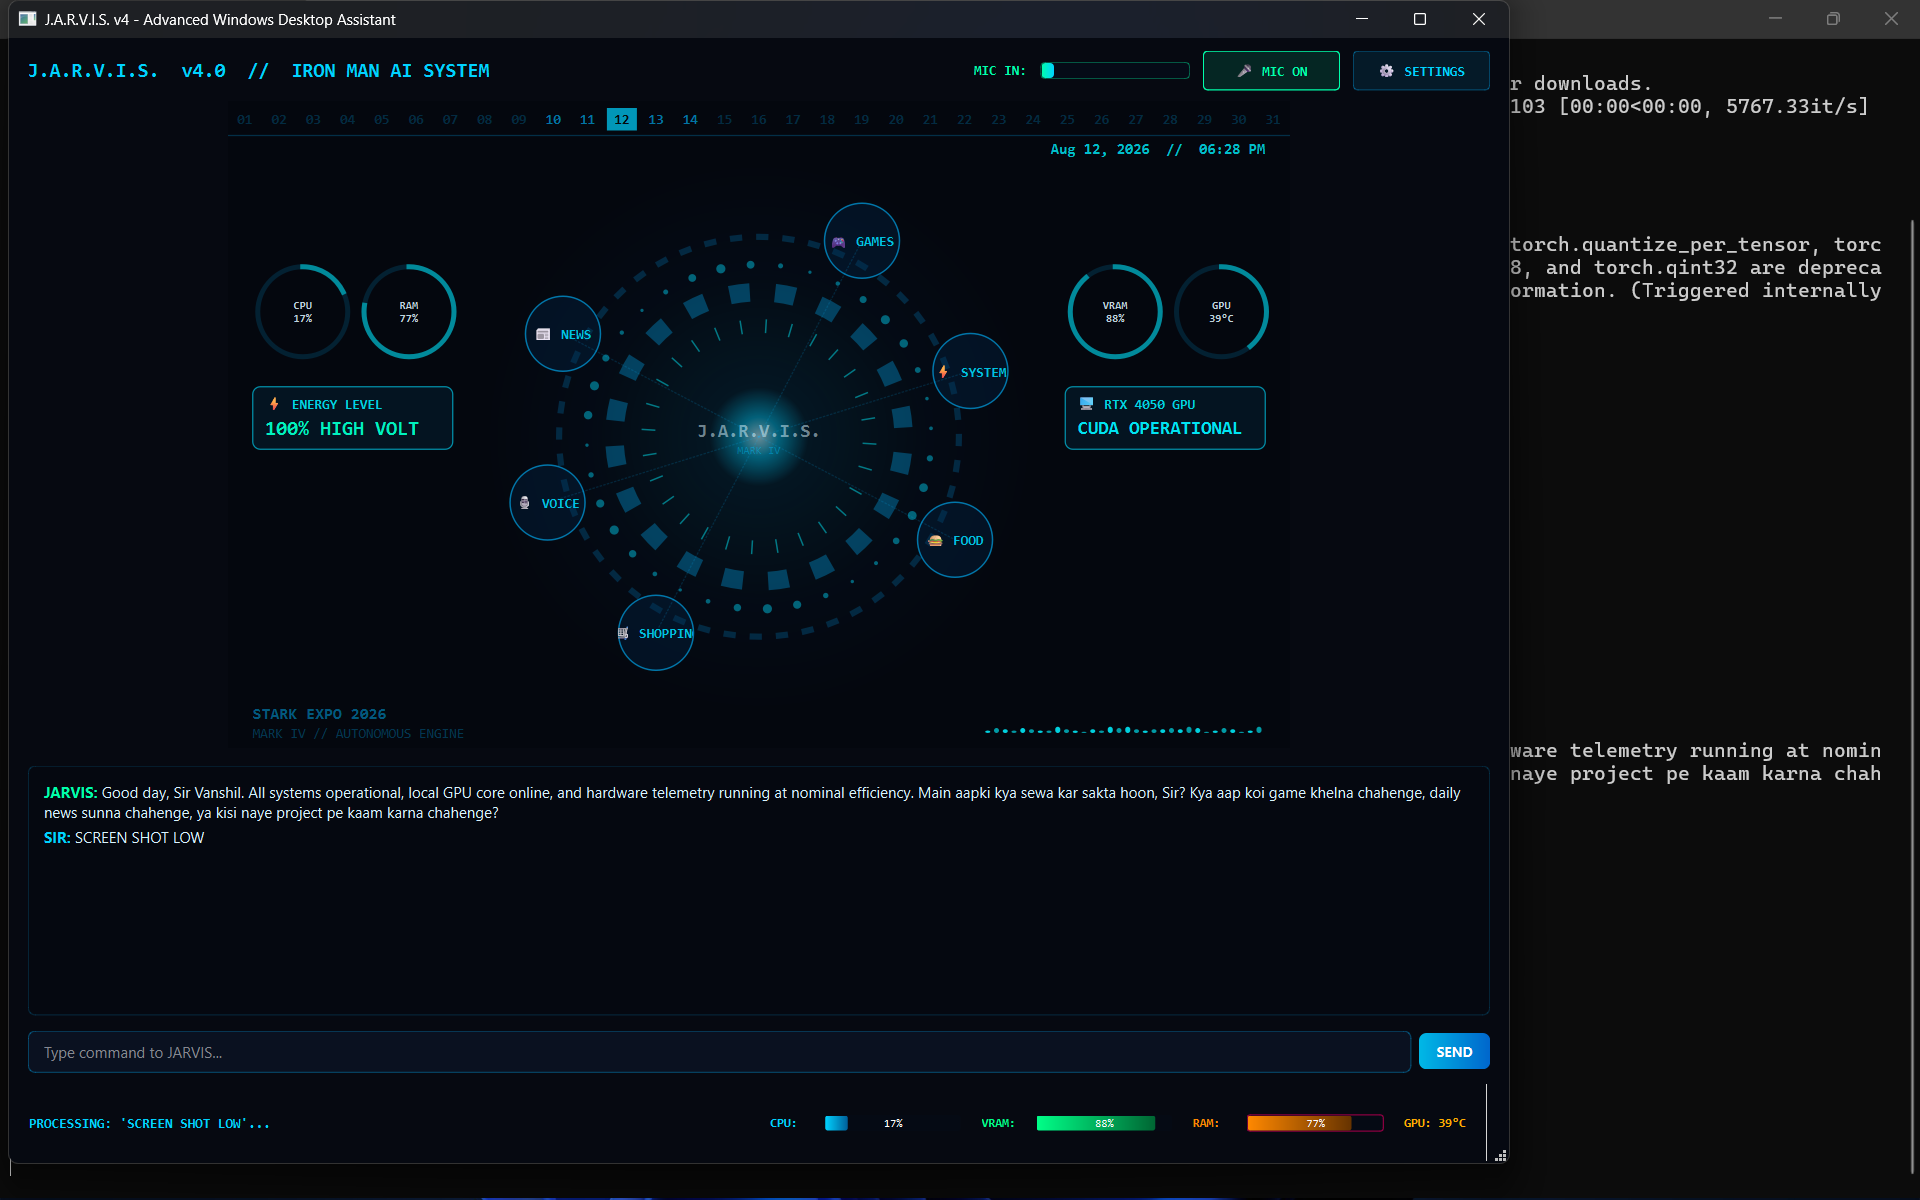
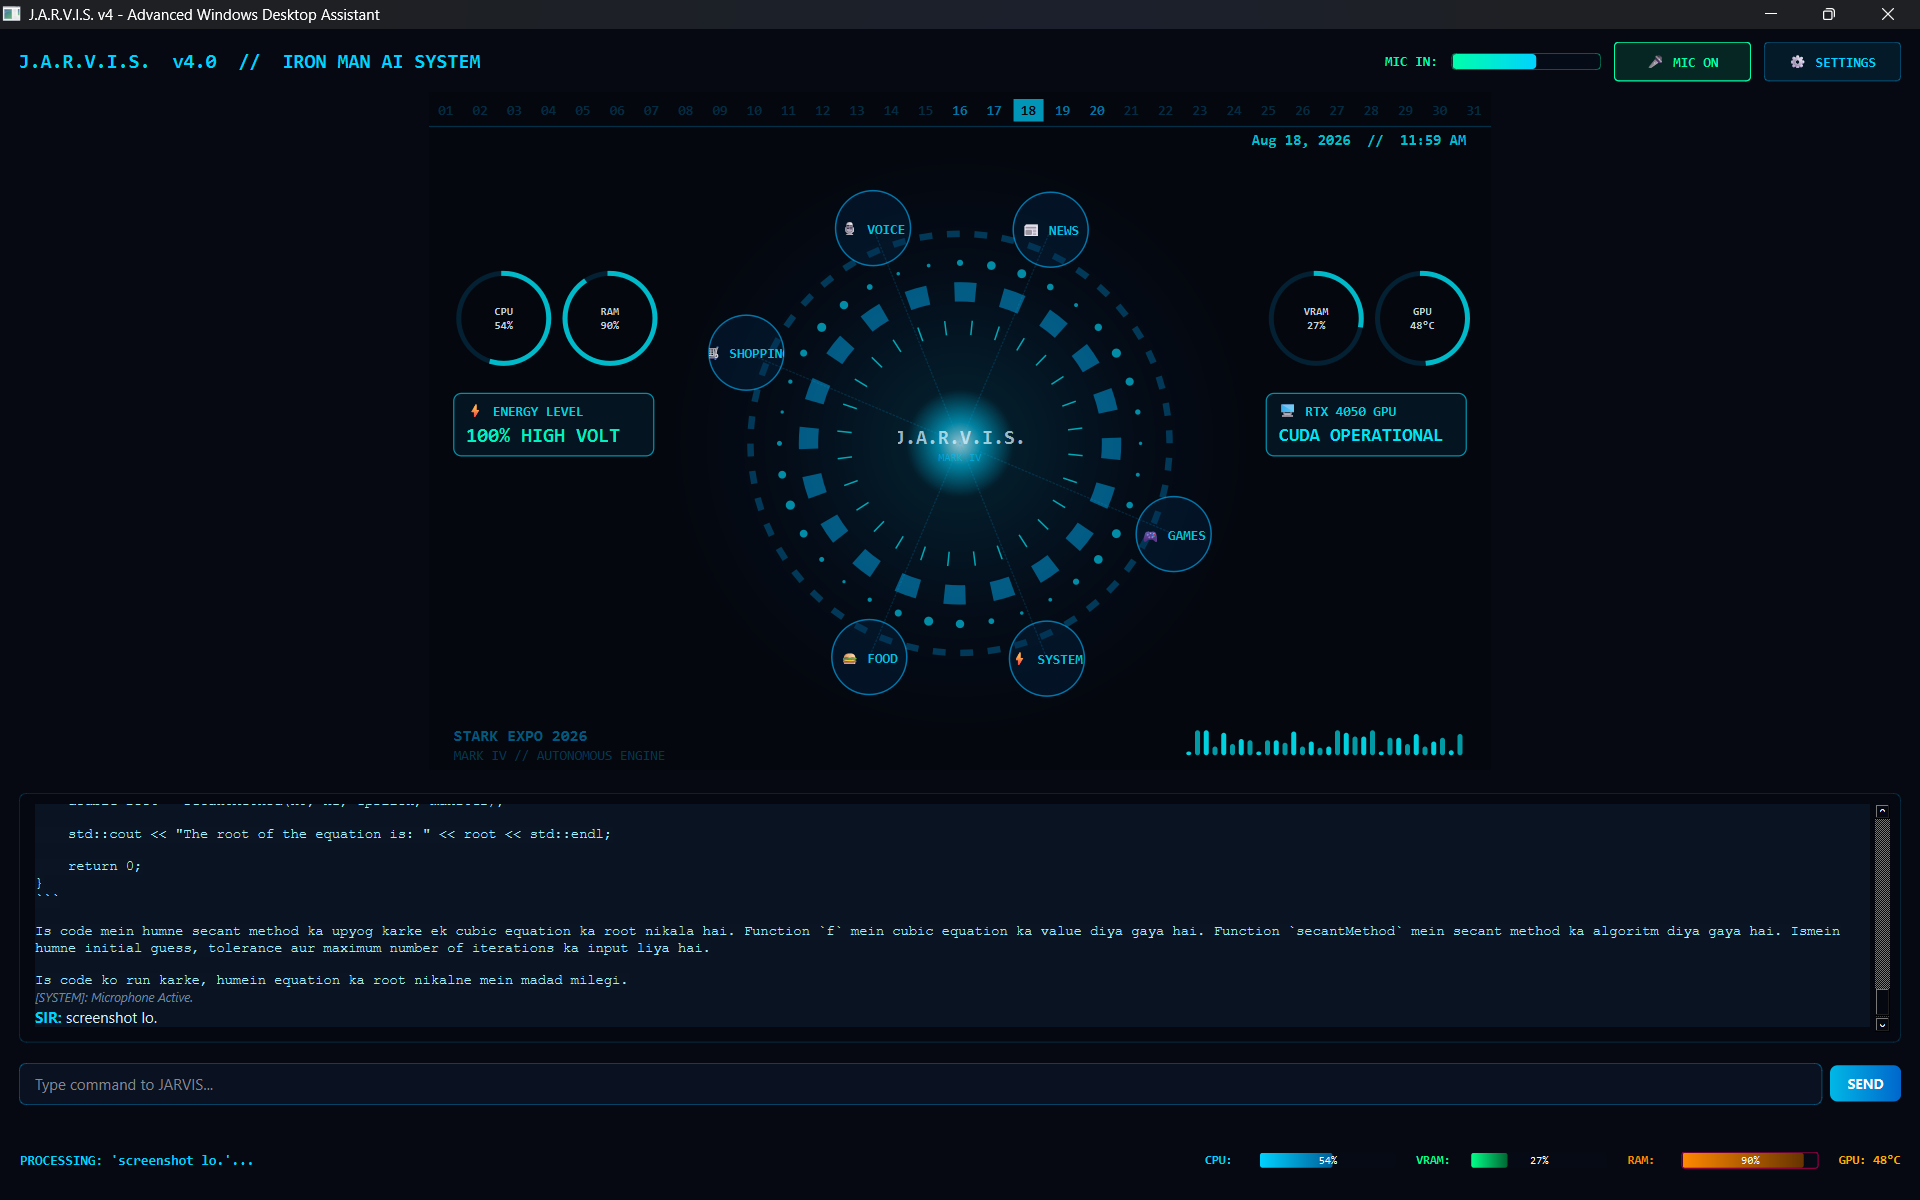
Expand code writing triggers in planner_agent.py and add offline templates + UI feed rendering in coding_agent.py

diff --git a/agents/coding_agent.py b/agents/coding_agent.py
@@ -27,35 +27,54 @@ class CodingAgent(BaseAgent):
 
     async def execute_task(self, action: str, params: Dict[str, Any]) -> Dict[str, Any]:
         action = action.lower()
-        if action == "create_vscode_project":
+        if action in ("create_vscode_project", "create_project"):
             folder_name = params.get("folder_name", "JARVIS_Project")
             target_dir = params.get("target_dir")
             language = params.get("language", "python")
             prompt = params.get("prompt", f"Create a production quality {language} project")
-            sys_prompt = f"You are an expert {language} software developer. Generate complete production code with comments."
+            sys_prompt = f"You are an expert {language} software developer. Generate complete, clean, working production code with comments."
             code = await self.llm.generate_response(prompt=prompt, system_prompt=sys_prompt)
+            if "offline standby mode" in code or not code.strip():
+                code = self._get_fallback_code(prompt, language)
+
             res = self.vscode.create_project_and_code(
                 folder_name=folder_name,
                 target_dir=target_dir,
                 language=language,
                 code_content=code
             )
+            notepad_file = self._open_in_notepad(code, language)
             res["code"] = code
+            res["notepad_path"] = notepad_file
+            res["speech_reply"] = f"Ji Sir, maine '{folder_name}' folder me aapka {language.capitalize()} code write karke Notepad aur VS Code me khol diya hai!"
             return res
 
-        elif action == "generate_code":
+        elif action in ("generate_code", "write_code", "code"):
             language = params.get("language", "python")
-            prompt = params.get("prompt", "")
-            sys_prompt = f"You are an expert {language} software developer. Generate clean, efficient, production quality code with comments."
+            prompt = params.get("prompt", params.get("user_input", "Write clean python code"))
+            sys_prompt = f"You are an expert {language} software developer. Generate clean, efficient, working code with comments."
             code = await self.llm.generate_response(prompt=prompt, system_prompt=sys_prompt)
+            if "offline standby mode" in code or not code.strip():
+                code = self._get_fallback_code(prompt, language)
+
             notepad_path = self._open_in_notepad(code, language)
-            return {"status": "success", "language": language, "code": code, "notepad_path": notepad_path}
+            return {
+                "status": "success",
+                "language": language,
+                "code": code,
+                "notepad_path": notepad_path,
+                "speech_reply": f"Ji Sir, maine aapka {language.capitalize()} code write kar diya hai aur ise Notepad me open kar diya hai! Code aapke GUI feed par bhi hai."
+            }
 
         elif action == "explain_code":
             code = params.get("code", "")
             prompt = f"Explain the following code step-by-step:\n```\n{code}\n```"
             explanation = await self.llm.generate_response(prompt=prompt)
-            return {"status": "success", "explanation": explanation}
+            return {
+                "status": "success",
+                "explanation": explanation,
+                "speech_reply": f"Sir, yeh raha aapke code ka step-by-step explanation: {explanation[:200]}..."
+            }
 
         elif action == "debug_code":
             code = params.get("code", "")
@@ -63,13 +82,106 @@ class CodingAgent(BaseAgent):
             prompt = f"Debug this code:\n```\n{code}\n```\nStack Trace / Error:\n{error_msg}\nProvide corrected code and explanation."
             fix = await self.llm.generate_response(prompt=prompt)
             notepad_path = self._open_in_notepad(fix, "txt")
-            return {"status": "success", "debug_result": fix, "notepad_path": notepad_path}
+            return {
+                "status": "success",
+                "debug_result": fix,
+                "notepad_path": notepad_path,
+                "speech_reply": "Ji Sir, maine code ko debug karke corrected code Notepad me open kar diya hai."
+            }
 
         elif action == "run_python_sandbox":
             code = params.get("code", "")
             return self._run_python_sandbox(code)
 
         return {"status": "error", "message": f"Unknown coding action: '{action}'"}
+
+    def _get_fallback_code(self, prompt: str, language: str) -> str:
+        """Generates instant working code templates when Ollama LLM server is offline."""
+        prompt_lower = prompt.lower()
+        if "snake" in prompt_lower:
+            return '''# Snake Game in Python (Pygame)
+import pygame, sys, random
+pygame.init()
+WIDTH, HEIGHT = 600, 400
+screen = pygame.display.set_mode((WIDTH, HEIGHT))
+pygame.display.set_caption("JARVIS Snake Game")
+clock = pygame.time.Clock()
+snake = [(100, 100), (90, 100), (80, 100)]
+direction = (10, 0)
+food = (200, 200)
+
+while True:
+    for event in pygame.event.get():
+        if event.type == pygame.QUIT: pygame.quit(); sys.exit()
+        elif event.type == pygame.KEYDOWN:
+            if event.key == pygame.K_UP and direction != (0, 10): direction = (0, -10)
+            elif event.key == pygame.K_DOWN and direction != (0, -10): direction = (0, 10)
+            elif event.key == pygame.K_LEFT and direction != (10, 0): direction = (-10, 0)
+            elif event.key == pygame.K_RIGHT and direction != (-10, 0): direction = (10, 0)
+
+    new_head = (snake[0][0] + direction[0], snake[0][1] + direction[1])
+    snake.insert(0, new_head)
+    if new_head == food:
+        food = (random.randint(0, (WIDTH-10)//10)*10, random.randint(0, (HEIGHT-10)//10)*10)
+    else:
+        snake.pop()
+
+    screen.fill((10, 15, 25))
+    for segment in snake:
+        pygame.draw.rect(screen, (0, 255, 170), (*segment, 10, 10))
+    pygame.draw.rect(screen, (255, 50, 80), (*food, 10, 10))
+    pygame.display.flip()
+    clock.tick(15)
+'''
+        elif "calculator" in prompt_lower:
+            return '''# Simple Calculator in Python
+def calculate():
+    print("=== JARVIS Calculator ===")
+    num1 = float(input("Enter first number: "))
+    op = input("Enter operator (+, -, *, /): ")
+    num2 = float(input("Enter second number: "))
+
+    if op == '+': result = num1 + num2
+    elif op == '-': result = num1 - num2
+    elif op == '*': result = num1 * num2
+    elif op == '/': result = num1 / num2 if num2 != 0 else "Error (Division by zero)"
+    else: result = "Invalid operator"
+
+    print(f"Result: {result}")
+
+if __name__ == "__main__":
+    calculate()
+'''
+        elif language.lower() in ("html", "webpage", "website"):
+            return '''<!DOCTYPE html>
+<html lang="en">
+<head>
+    <meta charset="UTF-8">
+    <meta name="viewport" content="width=device-width, initial-scale=1.0">
+    <title>JARVIS Generated Webpage</title>
+    <style>
+        body { background-color: #080c16; color: #00d2ff; font-family: 'Segoe UI', sans-serif; text-align: center; padding: 50px; }
+        .card { background: rgba(0, 180, 255, 0.1); border: 1px solid #00d2ff; padding: 20px; border-radius: 12px; display: inline-block; }
+    </style>
+</head>
+<body>
+    <div class="card">
+        <h1>Welcome Sir</h1>
+        <p>This webpage was created automatically by J.A.R.V.I.S. v4</p>
+    </div>
+</body>
+</html>
+'''
+        else:
+            return f'''# JARVIS v4 - {language.capitalize()} Program
+# Prompt: {prompt}
+
+def main():
+    print("Greetings Sir! Executing {language.capitalize()} code generated by JARVIS.")
+
+if __name__ == "__main__":
+    main()
+'''
 
     def _open_in_notepad(self, code: str, language: str = "txt") -> Optional[str]:
         """Saves generated code into a file and opens it in Notepad."""

diff --git a/agents/planner_agent.py b/agents/planner_agent.py
@@ -220,7 +220,15 @@ class PlannerAgent:
                 }
 
         # Code Generation & VS Code Project Creator fast-path (English & Hinglish)
-        if "code" in clean.lower() and any(k in clean.lower() for k in ["write", "likh", "banao", "create", "generate", "give", "do", "script", "make", "vs code", "vscode"]):
+        code_triggers = ["code", "script", "program", "coding", "algorithm", "function", "webpage", "snippet"]
+        code_actions = ["write", "likh", "banao", "create", "generate", "give", "do", "make", "vs code", "vscode", "build"]
+        
+        is_coding_request = (
+            any(t in clean.lower() for t in ["write a code", "write code", "code write", "coding", "code banao", "code likho", "create a script", "write a program", "write python", "write java", "write cpp", "write html", "make code"]) or
+            (any(t in clean.lower() for t in code_triggers) and any(a in clean.lower() for a in code_actions))
+        )
+
+        if is_coding_request:
             lang = "python"
             for l in ["java", "python", "cpp", "c++", "c#", "html", "css", "javascript", "js", "sql", "react", "unity"]:
                 if l in clean.lower():
